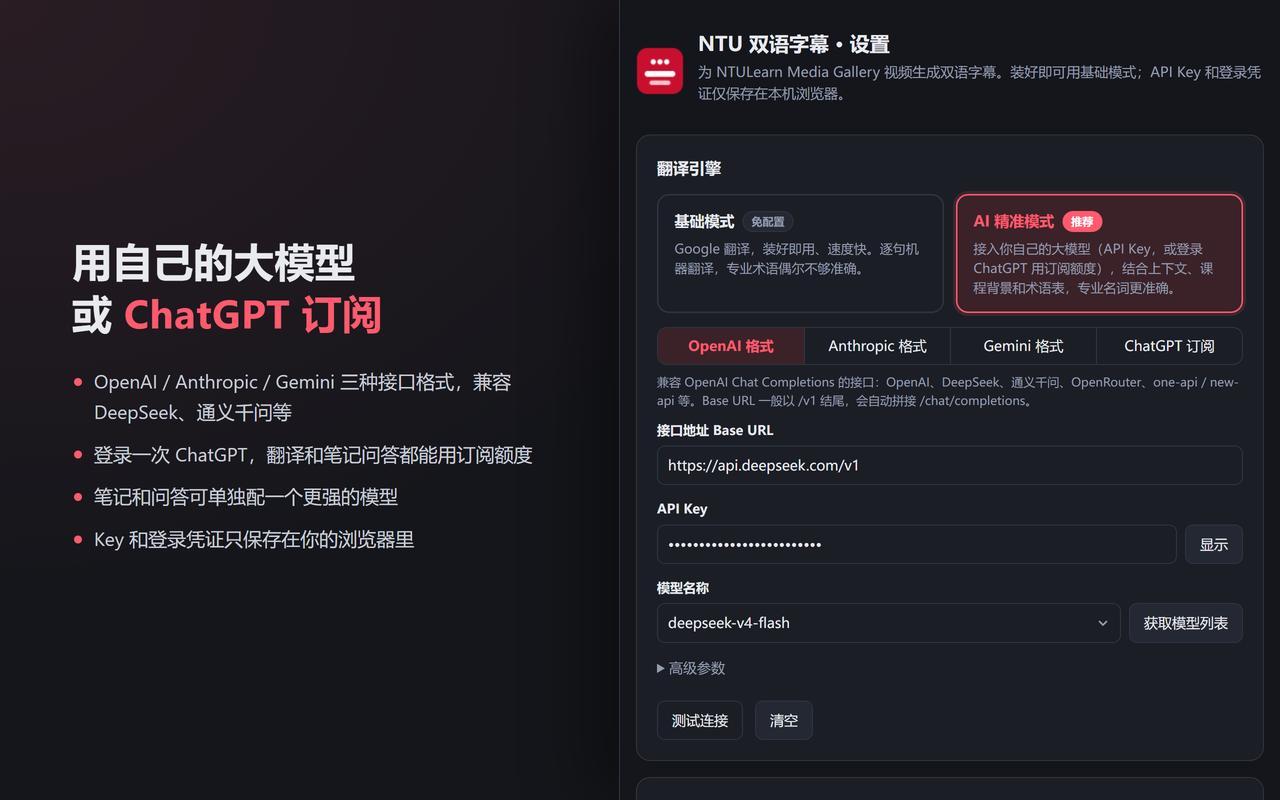
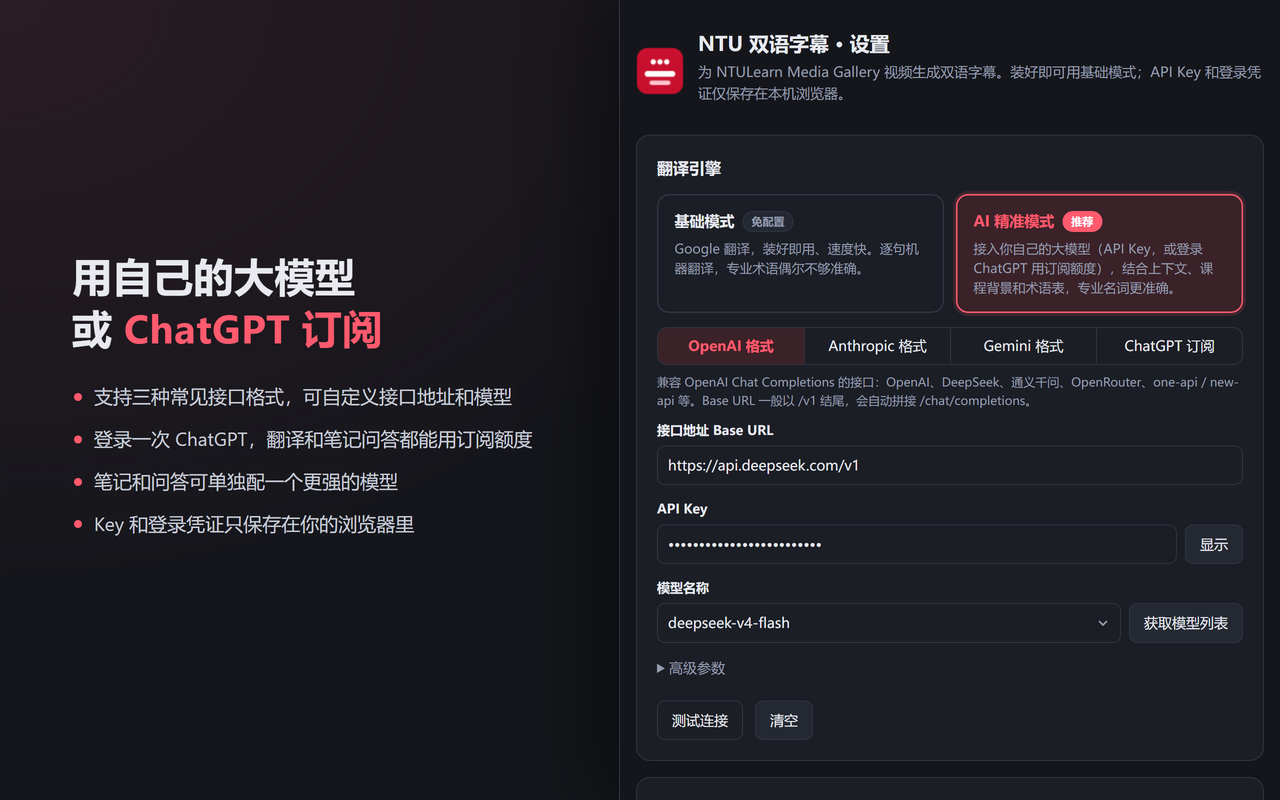
Store listing: drop the list of provider names from the description
The Chrome Web Store rejected the listing for keyword spam (Yellow Argon) over the
line that listed API formats and compatible providers. Describe the feature instead,
in the description and in the settings screenshot.

Changed region(s): [[0.0625, 0.4688, 0.4375, 0.6875], [0.0312, 0.2812, 0.3125, 0.4375]]

diff --git a/test/store-art.html b/test/store-art.html
@@ -78,7 +78,7 @@
   <div class="copy">
     <h2>用自己的大模型<br>或 <em>ChatGPT 订阅</em></h2>
     <ul>
-      <li>OpenAI / Anthropic / Gemini 三种接口格式，兼容 DeepSeek、通义千问等</li>
+      <li>支持三种常见接口格式，可自定义接口地址和模型</li>
       <li>登录一次 ChatGPT，翻译和笔记问答都能用订阅额度</li>
       <li>笔记和问答可单独配一个更强的模型</li>
       <li>Key 和登录凭证只保存在你的浏览器里</li>

diff --git a/docs/store/LISTING.md b/docs/store/LISTING.md
@@ -36,8 +36,8 @@
 • 13 种目标语言，也可自定义
 
 【AI 精准模式】
-• 接入你自己的大模型：OpenAI、Anthropic、Gemini 三种接口格式，可自定义接口地址和模型，兼容 DeepSeek、通义千问、OpenRouter 等
-• 或者直接登录 ChatGPT，用你的 ChatGPT 订阅额度，不需要 API Key（OpenAI 官方 Sign in with ChatGPT）
+• 接入你自己的大模型：支持三种常见的接口格式，可自定义接口地址和模型名称
+• 也可以登录 ChatGPT 账号，直接使用订阅额度，不需要 API Key
 • 结合上下文、课程背景和术语表翻译，专业名词更准确，并能修正语音识别的错误
 
 【侧边栏】
@@ -69,8 +69,8 @@ BILINGUAL SUBTITLES
 • 13 target languages, or a custom one
 
 AI MODE
-• Use your own model: OpenAI, Anthropic or Gemini API formats with a custom endpoint and model, compatible with DeepSeek, Qwen, OpenRouter and other providers
-• Or sign in with ChatGPT and use your ChatGPT plan, no API key needed (OpenAI's official Sign in with ChatGPT)
+• Use your own model: three common API formats, with a custom endpoint and model name
+• Or sign in with a ChatGPT account and use your plan, no API key needed
 • Translation uses surrounding context, your course context and a glossary, so technical terms come out right and speech-recognition errors get fixed
 
 SIDE PANEL
